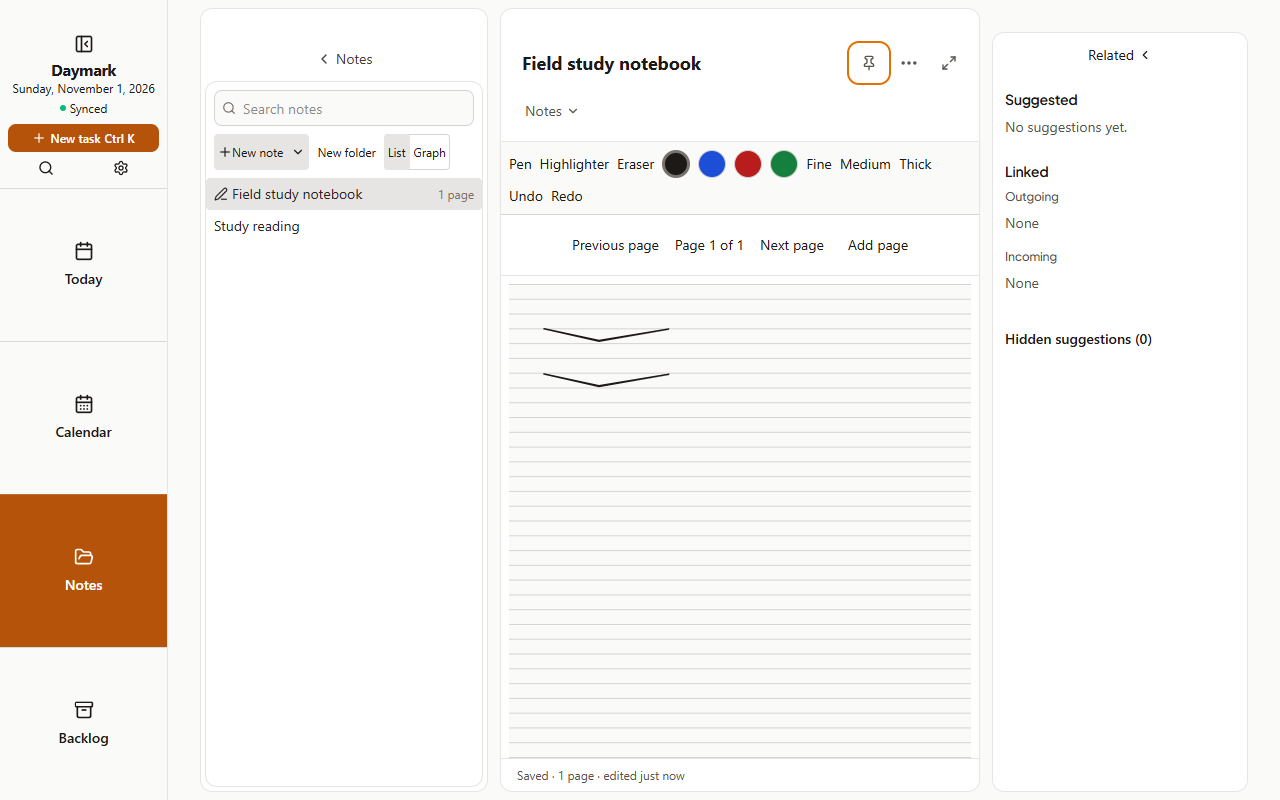
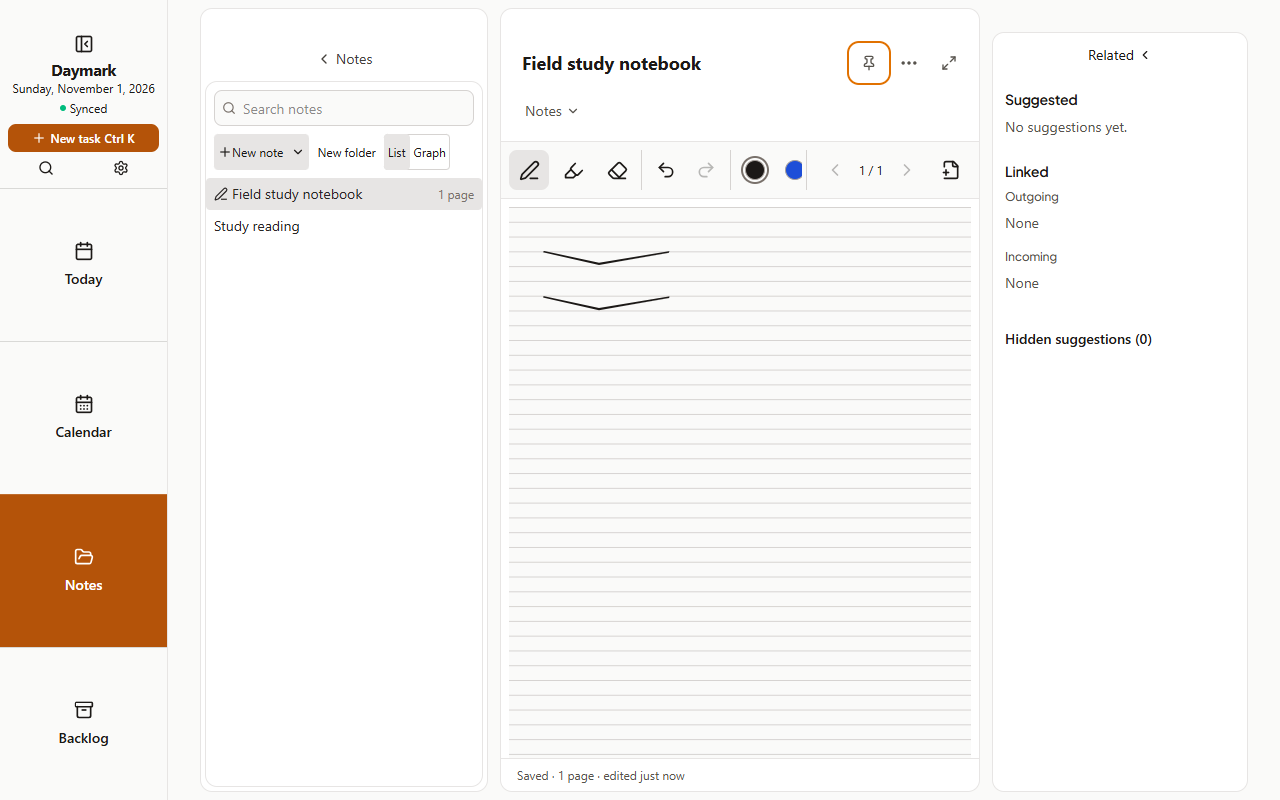
fix: toolbar keeps page controls in view on narrow panes; no gap above the tools

diff --git a/src/components/ink/InkToolbar.tsx b/src/components/ink/InkToolbar.tsx
@@ -18,7 +18,7 @@ export function readEraserMode(): EraserMode {
   try { return localStorage.getItem('dm.ink.eraserMode') === 'stroke' ? 'stroke' : 'area'; } catch { return 'area'; }
 }
 
-export const inkToolbarSurface = 'sticky top-0 z-10 shrink-0 border-b border-stone-200 bg-stone-50 pt-[var(--dm-safe-top,0px)] text-stone-900 dark:border-stone-800 dark:bg-stone-900 dark:text-stone-100';
+export const inkToolbarSurface = 'sticky top-0 z-10 shrink-0 border-b border-stone-200 bg-stone-50 text-stone-900 dark:border-stone-800 dark:bg-stone-900 dark:text-stone-100';
 export const inkToolbarButton = 'inline-flex h-10 w-10 shrink-0 items-center justify-center rounded-lg hover:bg-stone-200 focus-visible:outline-2 focus-visible:outline-offset-[-2px] focus-visible:outline-stone-500 disabled:opacity-30 dark:hover:bg-stone-800';
 const selectedStyle = 'bg-stone-200 dark:bg-stone-700';
 const tools = [{ tool: 'pen', label: 'Pen', Icon: PenLine }, { tool: 'highlighter', label: 'Highlighter', Icon: Highlighter }, { tool: 'eraser', label: 'Eraser', Icon: Eraser }] as const;
@@ -53,23 +53,25 @@ export function InkToolbar(props: InkToolbarProps) {
     <span aria-hidden="true" className={`h-5 w-5 rounded-full border border-stone-400 ${props.color === color ? 'ring-2 ring-stone-500 ring-offset-2 ring-offset-stone-50 dark:ring-stone-300 dark:ring-offset-stone-900' : ''}`} style={{ backgroundColor: color }} />
   </button>);
   return <div ref={surface} role="toolbar" aria-label="Writing tools" className={inkToolbarSurface}>
-    <div className="flex flex-nowrap items-center gap-1 overflow-x-auto p-2">
-      <div className="flex shrink-0 items-center gap-1">
-        {tools.map(({ tool, label, Icon }) => <button key={tool} type="button" aria-label={label} title={label} aria-pressed={props.tool === tool}
-          aria-haspopup="dialog" aria-expanded={props.tool === tool && open} aria-controls={props.tool === tool && open ? id : undefined}
-          className={`${inkToolbarButton} ${props.tool === tool ? selectedStyle : ''}`}
-          onClick={event => {
-            if (props.tool !== tool) { setSettings(null); props.onToolChange(tool); if (tool === 'eraser') props.onEraserModeChange(mode); return; }
-            if (open) { close(); return; }
-            trigger.current = event.currentTarget;
-            const left = event.currentTarget.getBoundingClientRect().left - (surface.current?.getBoundingClientRect().left ?? 0);
-            setSettings({ tool, left: Math.max(0, Math.min(left, (surface.current?.clientWidth ?? 240) - 240)) });
-          }}><Icon size={21} aria-hidden="true" /></button>)}
-      </div>
-      {props.tool !== 'eraser' && <div className="flex shrink-0 items-center border-l border-stone-300 pl-1 dark:border-stone-700">{colorButtons()}</div>}
-      <div className="flex shrink-0 items-center border-l border-stone-300 pl-1 dark:border-stone-700">
-        <button type="button" aria-label="Undo" title="Undo" className={inkToolbarButton} disabled={!props.canUndo} onClick={props.onUndo}><Undo2 size={20} aria-hidden="true" /></button>
-        <button type="button" aria-label="Redo" title="Redo" className={inkToolbarButton} disabled={!props.canRedo} onClick={props.onRedo}><Redo2 size={20} aria-hidden="true" /></button>
+    <div className="flex flex-nowrap items-center gap-1 p-2">
+      <div className="flex min-w-0 flex-1 flex-nowrap items-center gap-1 overflow-x-auto">
+        <div className="flex shrink-0 items-center gap-1">
+          {tools.map(({ tool, label, Icon }) => <button key={tool} type="button" aria-label={label} title={label} aria-pressed={props.tool === tool}
+            aria-haspopup="dialog" aria-expanded={props.tool === tool && open} aria-controls={props.tool === tool && open ? id : undefined}
+            className={`${inkToolbarButton} ${props.tool === tool ? selectedStyle : ''}`}
+            onClick={event => {
+              if (props.tool !== tool) { setSettings(null); props.onToolChange(tool); if (tool === 'eraser') props.onEraserModeChange(mode); return; }
+              if (open) { close(); return; }
+              trigger.current = event.currentTarget;
+              const left = event.currentTarget.getBoundingClientRect().left - (surface.current?.getBoundingClientRect().left ?? 0);
+              setSettings({ tool, left: Math.max(0, Math.min(left, (surface.current?.clientWidth ?? 240) - 240)) });
+            }}><Icon size={21} aria-hidden="true" /></button>)}
+        </div>
+        <div className="flex shrink-0 items-center border-l border-stone-300 pl-1 dark:border-stone-700">
+          <button type="button" aria-label="Undo" title="Undo" className={inkToolbarButton} disabled={!props.canUndo} onClick={props.onUndo}><Undo2 size={20} aria-hidden="true" /></button>
+          <button type="button" aria-label="Redo" title="Redo" className={inkToolbarButton} disabled={!props.canRedo} onClick={props.onRedo}><Redo2 size={20} aria-hidden="true" /></button>
+        </div>
+        {props.tool !== 'eraser' && <div className="flex shrink-0 items-center border-l border-stone-300 pl-1 dark:border-stone-700">{colorButtons()}</div>}
       </div>
       {props.pageControls}
     </div>

diff --git a/src/components/ink/HandwrittenNoteView.tsx b/src/components/ink/HandwrittenNoteView.tsx
@@ -44,7 +44,7 @@ export function HandwrittenNoteView({ note, pages: pagesProp, onUpdatePage }: Ha
   };
   const color = tool === 'highlighter' ? highlightColor : penColor;
   const width = tool === 'highlighter' ? highlightWidth : tool === 'eraser' ? 24 : penWidth;
-  const pageControls = <div className="ml-auto flex shrink-0 items-center gap-1 border-l border-stone-300 pl-2 dark:border-stone-700">
+  const pageControls = <div className="flex shrink-0 items-center gap-1 border-l border-stone-300 pl-2 dark:border-stone-700">
     <button type="button" aria-label="Previous page" title="Previous page" className={inkToolbarButton} disabled={number === 0} onClick={() => navigate(number - 1)}><ChevronLeft size={20} aria-hidden="true" /></button>
     <span role="status" className="whitespace-nowrap text-xs tabular-nums">
       <span aria-hidden="true">{number + 1} / {count}</span><span className="sr-only">Page {number + 1} of {count}</span>
@@ -66,7 +66,7 @@ export function HandwrittenNoteView({ note, pages: pagesProp, onUpdatePage }: Ha
         onWidthChange={tool === 'highlighter' ? setHighlightWidth : setPenWidth}
         onEraserModeChange={setEraserMode} onUndo={() => canvas.current?.undo()} onRedo={() => canvas.current?.redo()}
         canUndo={history.undo} canRedo={history.redo} pageControls={pageControls} />
-        : <div role="toolbar" aria-label="Page navigation" className={inkToolbarSurface}><div className="flex flex-nowrap items-center overflow-x-auto p-2">{pageControls}</div></div>}
+        : <div role="toolbar" aria-label="Page navigation" className={inkToolbarSurface}><div className="flex flex-nowrap items-center justify-end p-2">{pageControls}</div></div>}
       <div className="p-2">
         {/* A single fixed page is mounted; turning pages releases its canvas buffers. */}
         {writable ? <InkCanvas key={`${note.id}:${number}`} ref={canvas} page={page} paper={note.paper}

diff --git a/src/components/ink/HandwrittenNoteView.test.ts b/src/components/ink/HandwrittenNoteView.test.ts
@@ -121,7 +121,12 @@ it('follows App ink store pages and never hands a stale pages prop to the canvas
 it('keeps page controls in the writing row above the page, with a sticky opaque surface', () => {
   localStorage.setItem('dm.ink.penSeen', '1'); mount(5);
   const toolbar = host.querySelector('[aria-label="Writing tools"]')!;
-  for (const label of ['Previous page', 'Next page', 'Add page']) expect(toolbar.querySelector(`[aria-label="${label}"]`)).not.toBeNull();
+  for (const label of ['Previous page', 'Next page', 'Add page']) {
+    const control = toolbar.querySelector(`[aria-label="${label}"]`);
+    expect(control).not.toBeNull();
+    expect(control!.closest('.overflow-x-auto')).toBeNull();
+  }
+  expect(toolbar.querySelector('[role="status"]')!.closest('.overflow-x-auto')).toBeNull();
   expect(toolbar.textContent).toContain('1 / 5');
   expect(toolbar.className).toContain('sticky'); expect(toolbar.className).toContain('bg-stone-50');
   expect(toolbar.parentElement!.className).toContain('overflow-y-auto');
@@ -141,4 +146,14 @@ it('opens and closes settings without rendering the notebook or its canvas', () 
   click('Pen'); expect(host.querySelector('[role="dialog"]')).not.toBeNull();
   act(() => document.dispatchEvent(new KeyboardEvent('keydown', { key: 'Escape', bubbles: true })));
   expect(paper).toHaveBeenCalledTimes(reads); expect(host.querySelector('canvas')).toBe(canvas);
+});
+
+it.each([false, true])('reserves no extra safe-top band in the embedded toolbar (writable=%s)', writable => {
+  if (writable) localStorage.setItem('dm.ink.penSeen', '1');
+  host.style.setProperty('--dm-safe-top', '23px');
+  mount(2);
+  const toolbar = host.querySelector<HTMLElement>('[role="toolbar"]')!;
+  expect(toolbar.className).not.toContain('--dm-safe-top');
+  expect(toolbar.style.paddingTop).toBe('');
+  expect(toolbar.classList.contains('top-0')).toBe(true);
 });

diff --git a/src/components/ink/InkToolbar.test.ts b/src/components/ink/InkToolbar.test.ts
@@ -59,3 +59,19 @@ it('persists eraser mode and reapplies the stored mode when selecting eraser', (
   click('Eraser'); expect(button('Erase by stroke', dialog()).getAttribute('aria-pressed')).toBe('true');
   click('Erase by area', dialog()); expect(readEraserMode()).toBe('area'); expect(p.onEraserModeChange).toHaveBeenLastCalledWith('area');
 });
+
+it('scrolls tools and history before quick colours while keeping page controls outside the scroller', () => {
+  const pageControls = React.createElement('div', { 'data-page-controls': true }, React.createElement('button', { 'aria-label': 'Add page' }));
+  act(() => root.render(React.createElement(InkToolbar, { ...props(), pageControls })));
+  const scroller = host.querySelector('.overflow-x-auto')!;
+  expect(scroller.contains(button('Add page'))).toBe(false);
+  expect(scroller.nextElementSibling).toBe(host.querySelector('[data-page-controls]'));
+  expect(scroller.classList.contains('min-w-0')).toBe(true);
+  expect(scroller.classList.contains('flex-1')).toBe(true);
+  expect([...scroller.querySelectorAll('button')].map(b => b.getAttribute('aria-label'))).toEqual([
+    'Pen', 'Highlighter', 'Eraser', 'Undo', 'Redo',
+    'Colour #1c1917', 'Colour #1d4ed8', 'Colour #b91c1c', 'Colour #15803d',
+  ]);
+  click('Pen');
+  expect(scroller.contains(dialog())).toBe(false);
+});
